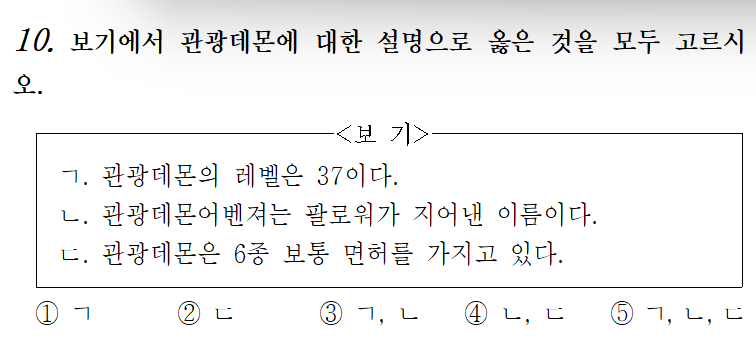
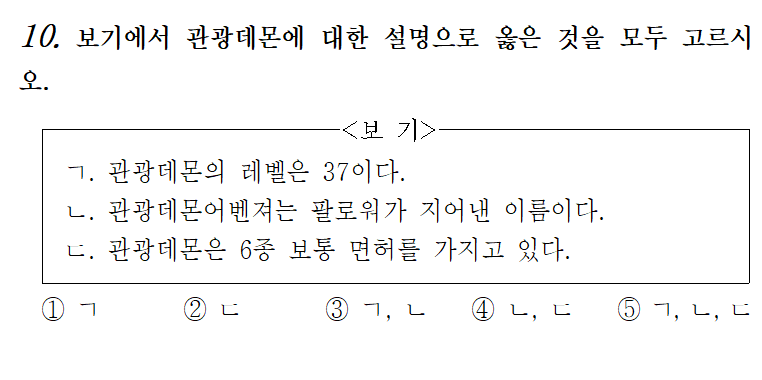
modify images & center align

diff --git a/index.html b/index.html
@@ -12,17 +12,18 @@
         height: 100vh;
         margin: 0;
         font-family: Arial, sans-serif;
+        background-color: #f9f9f9;
       }
-      #begin-page {
-        display: flex;
-        flex-direction: column;
-        justify-content: center;
-        align-items: center;
-        height: 100vh;
-        text-align: center;
+      #begin-page,
+      #quiz-container,
+      #result {
+        width: 100%;
+        max-width: 800px;
+        padding: 20px;
+        box-sizing: border-box;
       }
       #begin-page img {
-        max-width: 800px;
+        max-width: 100%;
         height: auto;
         margin-bottom: 20px;
         border-radius: 8px;
@@ -30,35 +31,41 @@
       #begin-page h1 {
         font-size: 24px;
         margin: 10px 0;
+        text-align: center;
       }
       #begin-page p {
         font-size: 16px;
         color: #555;
-        margin-bottom: 20px;
+        margin-bottom: 10px;
+        text-align: center;
       }
       #begin-page button {
         padding: 10px 20px;
-        font-size: 16px;
+        font-size: 18px;
         border: none;
         border-radius: 5px;
         background-color: #007bff;
         color: white;
         cursor: pointer;
+        width: 100%;
+        max-width: 300px;
       }
       #begin-page button:hover {
         background-color: #0056b3;
       }
       #quiz-container {
         text-align: center;
-        max-width: 500px;
-        padding: 20px;
         border: 1px solid #ddd;
         border-radius: 8px;
+        background-color: white;
+        box-shadow: 0 4px 6px rgba(0, 0, 0, 0.1);
       }
       #question-image {
+        display: block;
         width: 100%;
+        margin: 10px auto;
         max-width: 400px;
-        margin: 10px 0;
+        border-radius: 8px;
       }
       #options button {
         display: block;
@@ -66,16 +73,64 @@
         margin: 5px 0;
         padding: 10px;
         font-size: 16px;
+        text-align: center;
       }
       .selected {
         background-color: #d4edda;
         color: #155724;
       }
+      #result img {
+        max-width: 100%;
+        margin-bottom: 20px;
+        border-radius: 8px;
+      }
+      #result a {
+        font-size: 18px;
+        color: #007bff;
+        text-decoration: none;
+        display: block;
+        margin: 10px 0;
+        text-align: center;
+      }
+      #result a:hover {
+        text-decoration: underline;
+      }
+      @media (max-width: 768px) {
+        #begin-page h1 {
+          font-size: 20px;
+        }
+
+        #begin-page p {
+          font-size: 14px;
+        }
+
+        #begin-page button {
+          font-size: 16px;
+          padding: 10px 15px;
+        }
+
+        #quiz-container {
+          padding: 10px;
+        }
+
+        #options button {
+          font-size: 14px;
+          padding: 8px;
+        }
+
+        #result h2 {
+          font-size: 18px;
+        }
+
+        #result a {
+          font-size: 16px;
+        }
+      }
     </style>
   </head>
   <body>
     <!-- 시작화면 -->
-    <div id="begin-page">
+    <div id="begin-page" style="text-align: center">
       <img
         id="begin-image"
         src="./images/start_page1.png"
